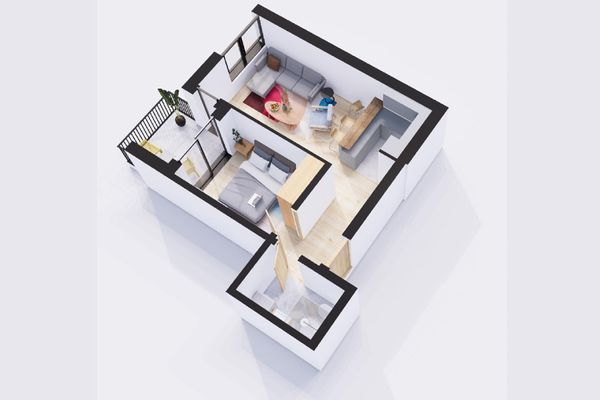
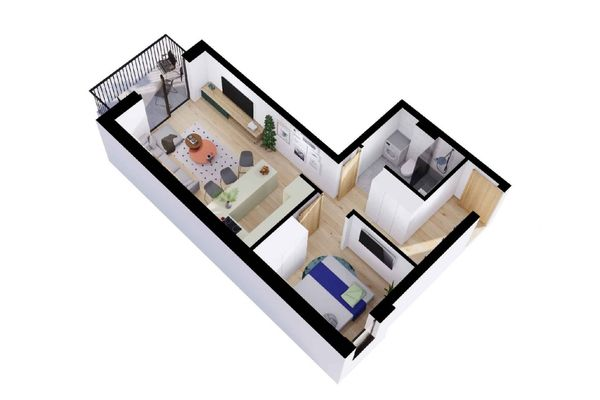
update3

diff --git a/stan12.html b/stan12.html
@@ -30,7 +30,7 @@
 
 	<!-- Document Title
 	============================================= -->
-	<title>Granit Invest - Vojvoda - stan 2</title>
+	<title>Granit Invest - Vojvoda - stan 3</title>
 
 	<style>
 
@@ -196,28 +196,28 @@
 						<!-- Posts -->
 						<div class="col-md-12">
 							<div id="section-gallery" class="page-section my-5">
-								<h3 class="mb-3">Jednoiposoban - Stan v2.02</h3>
+								<h3 class="mb-3">Jednoiposoban - Stan v1.03</h3>
 								<div class="fslider flex-thumb-grid grid-6" data-animation="fade" data-speed="900" data-pagi="false" data-thumbs="true">
 									<div class="flexslider">
 										<div class="slider-wrap">
-											<div class="slide" data-thumb="slike/stan2/1.jpg">
-												<img src="slike/stan2/1.jpg" alt="Image">
+											<div class="slide" data-thumb="slike/stan3/1.jpg">
+												<img src="slike/stan3/1.jpg" alt="Image">
 												<!-- <div class="bg-overlay">
 													<div class="bg-overlay-content justify-content-start align-items-end">
 														<div class="h4 fw-light bg-light text-dark px-3 py-2">Prodato</div>
 													</div>
 												</div> -->
 											</div>
-											<div class="slide" data-thumb="slike/stan2/2.jpg">
-												<img src="slike/stan2/2.jpg" alt="Image">
+											<div class="slide" data-thumb="slike/stan3/2.jpg">
+												<img src="slike/stan2/3.jpg" alt="Image">
 												
 											</div>
-												<!-- <div class="slide" data-thumb="slike/stan2/3.jpg">
-													<img src="slike/stan2/3.jpg" alt="Image">
-													
-												</div> -->
-											<div class="slide" data-thumb="slike/stan2/4.jpg">
-												<img src="slike/stan2/4.jpg" alt="Image">
+											<div class="slide" data-thumb="slike/stan3/3.jpg">
+												<img src="slike/stan3/3.jpg" alt="Image">
+												
+											</div>
+											<div class="slide" data-thumb="slike/stan3/4.jpg">
+												<img src="slike/stan3/4.jpg" alt="Image">
 												
 											</div>
 											
@@ -234,7 +234,7 @@
 							============================================= -->
 							<div id="section-spec" class="page-section mt-5">
 								
-								<p>Ukupna površina stana - 40.12 m2</p>
+								<p>Ukupna površina stana - 74.69 m2</p>
 								<div class="row">
 									<div class="col-lg-6 mt-3">
 										<table class="table">
@@ -246,39 +246,45 @@
 											</thead>
 											<tbody>
 												<tr>
-													<td scope="row" class="text-black-50">Ulazna partija:</td>
-													<td class="text-end fw-semibold">3.33 m2</td>
-												</tr>
-												<tr>
 													<td scope="row" class="text-black-50">Hodnik:</td>
-													<td class="text-end fw-semibold">5.69 m2</td>
-												</tr>
-												<tr>
-													<td scope="row" class="text-black-50">Hodnik:</td>
-													<td class="text-end fw-semibold">5.69 m2</td>
+													<td class="text-end fw-semibold">4.27 m2</td>
 												</tr>
 												<tr>
 													<td scope="row" class="text-black-50">Dnevni boravak sa trpezarijom:</td>
-													<td class="text-end fw-semibold">10.37 m2</td>
+													<td class="text-end fw-semibold">24.99 m2</td>
 												</tr>
 												<tr>
 													<td scope="row" class="text-black-50">Kuhinja:</td>
-													<td class="text-end fw-semibold">5.19 m2</td>
+													<td class="text-end fw-semibold">5.55 m2</td>
 												</tr>
 												<tr>
-													<td scope="row" class="text-black-50">Spavaća soba</td>
-													<td class="text-end fw-semibold">8,64 m2</td>
+													<td scope="row" class="text-black-50">Spavaća soba 1:</td>
+													<td class="text-end fw-semibold">12,36 m2</td>
 												</tr>
-											
+												<tr>
+													<td scope="row" class="text-black-50">Spavaća soba 2:</td>
+													<td class="text-end fw-semibold">9,80 m2</td>
+												</tr>
 												<tr>
 													<td scope="row" class="text-black-50">Kupatilo:</td>
-													<td class="text-end fw-semibold">3,67 m2</td>
+													<td class="text-end fw-semibold">3,66 m2</td>
 												</tr>
 										
-												
+												<tr>
+													<td scope="row" class="text-black-50">Toalet:</td>
+													<td class="text-end fw-semibold">2,06 m2</td>
+												</tr>
+												<tr>
+													<td scope="row" class="text-black-50">Degažman:</td>
+													<td class="text-end fw-semibold">4,75 m2</td>
+												</tr>
+												<tr>
+													<td scope="row" class="text-black-50">Vešernica:</td>
+													<td class="text-end fw-semibold">1,54 m2</td>
+												</tr>
 												<tr>
 													<td scope="row" class="text-black-50">Terasa:</td>
-													<td class="text-end fw-semibold">4,36 m2</td>
+													<td class="text-end fw-semibold">5,71 m2</td>
 												</tr>
 											 </tbody>
 										</table>
@@ -392,34 +398,29 @@
 									</thead>
 									<tbody>
 										<tr>
-											<td><a href="#">Stan v2.02</a><br><small>40.12 m2,  Prodato</small></td>
+											<td><a href="#">Stan v1.02</a><br><small>72.45 m2,  Prodato</small></td>
 											<td style="vertical-align: middle">1</td>
-											<td style="vertical-align: middle" class="fw-semibold">Stan 2</td>
+											<td style="vertical-align: middle" class="fw-semibold">Stan 5</td>
 										</tr>
 										<tr>
-											<td>Stan v2.07<br><small>40.12 m2, Dostupan</small></td>
+											<td>Stan v1.06<br><small>72.48 m2, Dostupan</small></td>
 											<td style="vertical-align: middle">2</td>
-											<td style="vertical-align: middle" class="fw-semibold">Stan 7</td>
+											<td style="vertical-align: middle" class="fw-semibold">Stan 10</td>
 										</tr>
 										<tr>
-											<td>Stan v2.12<br><small>40.14 m2, Dostupan</small></td>
+											<td>Stan v1.11<br><small>72.48 m2, Dostupan</small></td>
 											<td style="vertical-align: middle">3</td>
-											<td style="vertical-align: middle" class="fw-semibold">Stan 12</td>
+											<td style="vertical-align: middle" class="fw-semibold">Stan 15</td>
 										</tr>
 										<tr>
-											<td><a href="#">Stan v2.17</a><br><small>40.14 m2, Rezervisan</small></td>
+											<td><a href="#">Stan v1.16</a><br><small>72.54 m2, Rezervisan</small></td>
 											<td style="vertical-align: middle">4</td>
-											<td style="vertical-align: middle" class="fw-semibold">Stan 17</td>
+											<td style="vertical-align: middle" class="fw-semibold">Stan 20</td>
 										</tr>
 										<tr>
-											<td><a href="#">Stan v2.22</a><br><small>40.14 m2,  Prodato</small></td>
+											<td><a href="#">Stan v1.21</a><br><small>72.54 m2,  Prodato</small></td>
 											<td style="vertical-align: middle">5</td>
-											<td style="vertical-align: middle" class="fw-semibold">Stan 22</td>
-										</tr>
-										<tr>
-											<td><a href="#">Stan v2.27</a><br><small>40.14 m2,  Prodato</small></td>
-											<td style="vertical-align: middle">5</td>
-											<td style="vertical-align: middle" class="fw-semibold">Stan 27</td>
+											<td style="vertical-align: middle" class="fw-semibold">Stan 25</td>
 										</tr>
 									
 									

diff --git a/stan3.html b/stan3.html
@@ -30,7 +30,7 @@
 
 	<!-- Document Title
 	============================================= -->
-	<title>Granit Invest - Vojvoda - stan 3</title>
+	<title>Granit Invest - Vojvoda - stan 2</title>
 
 	<style>
 
@@ -196,28 +196,28 @@
 						<!-- Posts -->
 						<div class="col-md-12">
 							<div id="section-gallery" class="page-section my-5">
-								<h3 class="mb-3">Jednoiposoban - Stan v1.03</h3>
+								<h3 class="mb-3">Jednoiposoban - Stan v3.03</h3>
 								<div class="fslider flex-thumb-grid grid-6" data-animation="fade" data-speed="900" data-pagi="false" data-thumbs="true">
 									<div class="flexslider">
 										<div class="slider-wrap">
 											<div class="slide" data-thumb="slike/stan3/1.jpg">
 												<img src="slike/stan3/1.jpg" alt="Image">
-												<!-- <div class="bg-overlay">
+												<div class="bg-overlay">
 													<div class="bg-overlay-content justify-content-start align-items-end">
 														<div class="h4 fw-light bg-light text-dark px-3 py-2">Prodato</div>
 													</div>
-												</div> -->
+												</div>
 											</div>
 											<div class="slide" data-thumb="slike/stan3/2.jpg">
-												<img src="slike/stan2/3.jpg" alt="Image">
+												<img src="slike/stan3/2.jpg" alt="Image">
 												
 											</div>
 											<div class="slide" data-thumb="slike/stan3/3.jpg">
 												<img src="slike/stan3/3.jpg" alt="Image">
 												
 											</div>
-											<div class="slide" data-thumb="slike/stan3/4.jpg">
-												<img src="slike/stan3/4.jpg" alt="Image">
+											<div class="slide" data-thumb="slike/stan3/7.jpg">
+												<img src="slike/stan3/7.jpg" alt="Image">
 												
 											</div>
 											
@@ -234,7 +234,7 @@
 							============================================= -->
 							<div id="section-spec" class="page-section mt-5">
 								
-								<p>Ukupna površina stana - 74.69 m2</p>
+								<p>Ukupna površina stana - 43.43 m2</p>
 								<div class="row">
 									<div class="col-lg-6 mt-3">
 										<table class="table">
@@ -247,44 +247,27 @@
 											<tbody>
 												<tr>
 													<td scope="row" class="text-black-50">Hodnik:</td>
-													<td class="text-end fw-semibold">4.27 m2</td>
+													<td class="text-end fw-semibold">3.74 m2</td>
 												</tr>
 												<tr>
 													<td scope="row" class="text-black-50">Dnevni boravak sa trpezarijom:</td>
-													<td class="text-end fw-semibold">24.99 m2</td>
+													<td class="text-end fw-semibold">19.80 m2</td>
 												</tr>
 												<tr>
 													<td scope="row" class="text-black-50">Kuhinja:</td>
-													<td class="text-end fw-semibold">5.55 m2</td>
+													<td class="text-end fw-semibold">4.35 m2</td>
 												</tr>
 												<tr>
-													<td scope="row" class="text-black-50">Spavaća soba 1:</td>
-													<td class="text-end fw-semibold">12,36 m2</td>
-												</tr>
-												<tr>
-													<td scope="row" class="text-black-50">Spavaća soba 2:</td>
-													<td class="text-end fw-semibold">9,80 m2</td>
+													<td scope="row" class="text-black-50">Spavaća soba:</td>
+													<td class="text-end fw-semibold">8,38 m2</td>
 												</tr>
 												<tr>
 													<td scope="row" class="text-black-50">Kupatilo:</td>
-													<td class="text-end fw-semibold">3,66 m2</td>
-												</tr>
-										
-												<tr>
-													<td scope="row" class="text-black-50">Toalet:</td>
-													<td class="text-end fw-semibold">2,06 m2</td>
-												</tr>
-												<tr>
-													<td scope="row" class="text-black-50">Degažman:</td>
-													<td class="text-end fw-semibold">4,75 m2</td>
-												</tr>
-												<tr>
-													<td scope="row" class="text-black-50">Vešernica:</td>
-													<td class="text-end fw-semibold">1,54 m2</td>
+													<td class="text-end fw-semibold">4,35 m2</td>
 												</tr>
 												<tr>
 													<td scope="row" class="text-black-50">Terasa:</td>
-													<td class="text-end fw-semibold">5,71 m2</td>
+													<td class="text-end fw-semibold">4,50 m2</td>
 												</tr>
 											 </tbody>
 										</table>
@@ -398,31 +381,35 @@
 									</thead>
 									<tbody>
 										<tr>
-											<td><a href="#">Stan v1.02</a><br><small>72.45 m2,  Prodato</small></td>
+											<td><a href="#">Stan v3.03</a><br><small>43.43 m2,  Prodato</small></td>
 											<td style="vertical-align: middle">1</td>
-											<td style="vertical-align: middle" class="fw-semibold">Stan 5</td>
+											<td style="vertical-align: middle" class="fw-semibold">Stan 3</td>
 										</tr>
 										<tr>
-											<td>Stan v1.06<br><small>72.48 m2, Dostupan</small></td>
+											<td>Stan v3.03<br><small>43.43 m2, Dostupan</small></td>
 											<td style="vertical-align: middle">2</td>
-											<td style="vertical-align: middle" class="fw-semibold">Stan 10</td>
+											<td style="vertical-align: middle" class="fw-semibold">Stan 8</td>
 										</tr>
 										<tr>
-											<td>Stan v1.11<br><small>72.48 m2, Dostupan</small></td>
+											<td>Stan v3.03<br><small>43.43 m2, Dostupan</small></td>
 											<td style="vertical-align: middle">3</td>
-											<td style="vertical-align: middle" class="fw-semibold">Stan 15</td>
+											<td style="vertical-align: middle" class="fw-semibold">Stan 13</td>
 										</tr>
 										<tr>
-											<td><a href="#">Stan v1.16</a><br><small>72.54 m2, Rezervisan</small></td>
+											<td><a href="#">Stan v3.03</a><br><small>43.43 m2, Rezervisan</small></td>
 											<td style="vertical-align: middle">4</td>
-											<td style="vertical-align: middle" class="fw-semibold">Stan 20</td>
+											<td style="vertical-align: middle" class="fw-semibold">Stan 18</td>
 										</tr>
 										<tr>
-											<td><a href="#">Stan v1.21</a><br><small>72.54 m2,  Prodato</small></td>
+											<td><a href="#">Stan v3.03</a><br><small>43.43 m2,  Prodato</small></td>
 											<td style="vertical-align: middle">5</td>
-											<td style="vertical-align: middle" class="fw-semibold">Stan 25</td>
+											<td style="vertical-align: middle" class="fw-semibold">Stan 23</td>
 										</tr>
-									
+										<tr>
+											<td><a href="#">Stan v3.03</a><br><small>43.43 m2,  Prodato</small></td>
+											<td style="vertical-align: middle">6</td>
+											<td style="vertical-align: middle" class="fw-semibold">Stan 28</td>
+										</tr>
 									
 									 </tbody>
 								</table>

diff --git a/index.html b/index.html
@@ -373,21 +373,21 @@
 							<article class="portfolio-item col-12 col-sm-6 col-lg-4 cf-suv">
 								<div class="grid-inner">
 									<div class="portfolio-image">
-										<a href="#">
+										<a href="stan2.html">
 											<img src="slike/stan2.jpg" alt="Open Imagination">
 											<div class="filter-p-pricing">
-												<span class="p-price fw-bold ls1">47.8 m2</span>
+												<span class="p-price fw-bold ls1">40.12 m2</span>
 												
 											</div>
 										</a>
 									</div>
 									<div class="portfolio-desc">
-										<h3><a href="#">Dvosoban</a></h3>
-										<span>Lorem ipsum dolor sit amet, consectetur adipiscing elit, sed do eiusmod tempor incididunt ut labore et dolore magna aliqua.</span>
+										<h3><a href="stan2.html">Jednoiposoban</a></h3>
+										<span>Ukupna površina stana - 40.12 m2</span>
 									</div>
 									<div class="row g-0 car-p-features font-primary clearfix">
-										<div class="col-lg-4 col-6 p-0"><span> Lamela 1</span></div>
-										<div class="col-lg-4 col-6 p-0"><span> 2 sprat</span></div>
+										<div class="col-lg-4 col-6 p-0"><span> Lamela 2</span></div>
+										<div class="col-lg-4 col-6 p-0"><span> 1,2,3,4,5,6 sprat</span></div>
 									</div>
 								</div>
 							</article>
@@ -396,21 +396,21 @@
 							<article class="portfolio-item col-12 col-sm-6 col-lg-4 cf-cabriolet">
 								<div class="grid-inner">
 									<div class="portfolio-image">
-										<a href="#">
+										<a href="stan3.html">
 											<img src="slike/stan3.jpg" alt="Open Imagination">
 											<div class="filter-p-pricing">
-												<span class="p-price fw-bold ls1">48.5 m2</span>
+												<span class="p-price fw-bold ls1">43.43 m2</span>
 												
 											</div>
 										</a>
 									</div>
 									<div class="portfolio-desc">
-										<h3><a href="#">Dvosoban</a></h3>
-										<span>Lorem ipsum dolor sit amet, consectetur adipiscing elit, sed do eiusmod tempor incididunt ut labore et dolore magna aliqua.</span>
+										<h3><a href="stan3.html">Jednoiposoban</a></h3>
+										<span>Ukupna površina stana - 43.43 m2</span>
 									</div>
 									<div class="row g-0 car-p-features font-primary clearfix">
-										<div class="col-lg-4 col-6 p-0"><span> Lamela 1</span></div>
-										<div class="col-lg-4 col-6 p-0"><span> 5 sprat</span></div>
+										<div class="col-lg-4 col-6 p-0"><span> Lamela 2</span></div>
+										<div class="col-lg-4 col-6 p-0"><span> 1,2,3,4,5,6 sprat</span></div>
 									</div>
 								</div>
 							</article>
